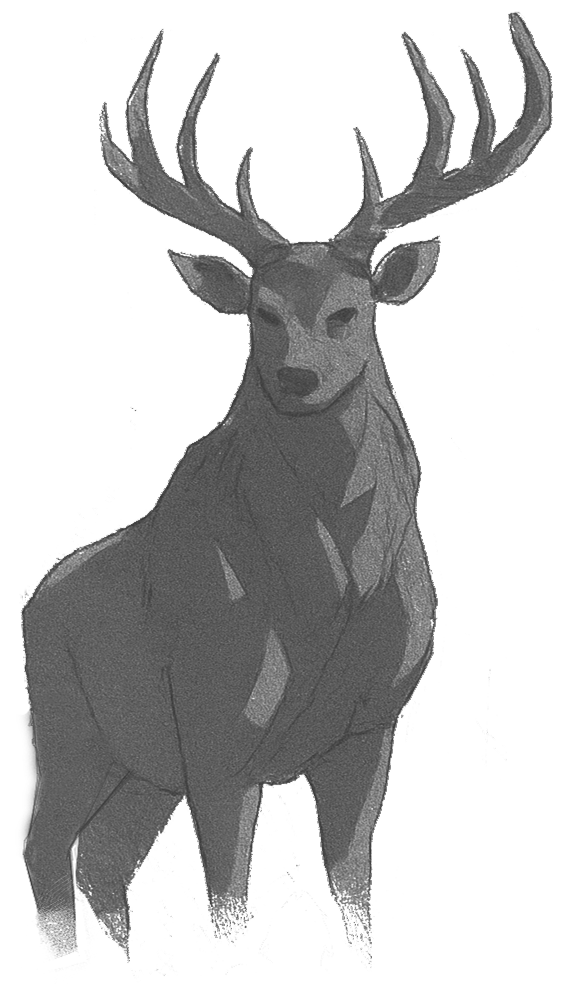
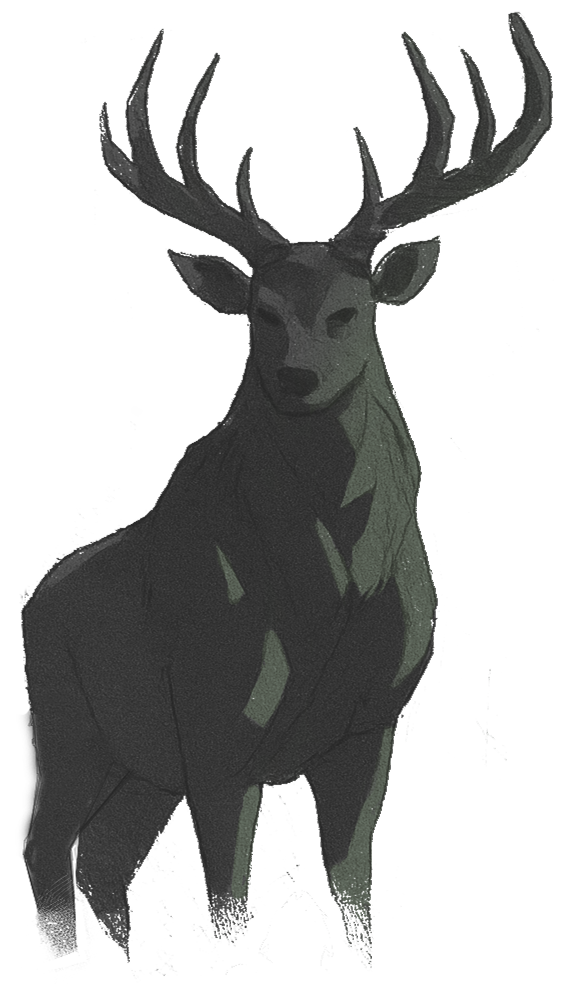
add derr lighting

diff --git a/src/styles.css b/src/styles.css
@@ -8,28 +8,6 @@
 
     --color-shadow: hsl(0 0% 100%);
     --color-shadow-2: hsl(130deg 100% 70%);
-    --color-shadow-3: hsl(130deg 100% 70% / 30%);
-
-    --color-deer-glow: hsl(130deg 40% 90%);
-
-    --deer-shadow: drop-shadow(0 0 2px rgb(255 255 255 / 80%))
-      drop-shadow(
-        0 0 5px color-mix(in hsl, var(--color-deer-glow) 80%, transparent)
-      )
-      drop-shadow(
-        0 0 10px color-mix(in hsl, var(--color-deer-glow) 80%, transparent)
-      )
-      drop-shadow(
-        0 0 20px color-mix(in hsl, var(--color-deer-glow) 80%, transparent)
-      )
-      drop-shadow(
-        0 0 30px color-mix(in hsl, var(--color-shadow-2) 40%, transparent)
-      )
-      drop-shadow(
-        0 0 40px color-mix(in hsl, var(--color-deer-glow) 80%, transparent)
-      )
-      drop-shadow(0 100px 70px var(--color-shadow-2))
-      drop-shadow(0 0 45px var(--color-deer-glow));
   }
 
   html {
@@ -83,59 +61,13 @@
     width: 90vmin;
     max-width: 600px;
 
+    img {
+      animation: deer-glow 3s infinite alternate ease-in-out;
+    }
+
     @media (min-width: 510px) {
       width: 65vmin;
       translate: calc(var(--pointer-x) - 100px) calc(var(--pointer-y) - 100px);
-    }
-  }
-
-  .deer-head {
-    position: absolute;
-    scale: 0.6;
-    top: 25%;
-    left: 48%;
-    filter: var(--deer-shadow);
-    color: white;
-    opacity: 0.9;
-    animation: deer-glow 3s infinite alternate ease-in-out;
-    will-change: filter;
-
-    @media (min-width: 600px) {
-      scale: 0.9;
-      top: 26%;
-      left: 50%;
-    }
-
-    @media (min-width: 800px) {
-      scale: 1;
-      top: 26%;
-      left: 50%;
-    }
-  }
-
-  .deer::before,
-  .deer::after {
-    content: '';
-    position: absolute;
-    width: 25px;
-    height: 2px;
-    background-color: white;
-    filter: var(--deer-shadow);
-  }
-
-  .deer::before {
-    rotate: 36deg;
-    left: 42%;
-    top: 24.5%;
-  }
-
-  .deer::after {
-    rotate: -45deg;
-    left: 59%;
-    top: 24.5%;
-
-    @media (min-width: 510px) {
-      left: 60%;
     }
   }
 
@@ -173,7 +105,8 @@
       0 0 5px #fff,
       -10px 0 60px var(--color-shadow),
       10px 0 60px var(--color-shadow-2),
-      100px 100px 200px 70px var(--color-shadow-3);
+      100px 100px 200px 70px
+        color-mix(in hsl, var(--color-shadow-2) 40%, transparent);
 
     animation: move 3s infinite alternate ease-in-out;
 
@@ -184,11 +117,11 @@
 
   @keyframes deer-glow {
     0% {
-      filter: hue-rotate(-40deg) var(--deer-shadow);
+      filter: hue-rotate(-40deg);
     }
 
     100% {
-      filter: hue-rotate(40deg) var(--deer-shadow);
+      filter: hue-rotate(40deg);
     }
   }
 
@@ -232,6 +165,24 @@
       font-weight: 600;
       color: var(--color-fg);
       text-decoration: none;
+      position: relative;
+
+      &::before {
+        content: '';
+        position: absolute;
+        width: 1ch;
+        height: 4px;
+        background-color: currentColor;
+        bottom: -3px;
+        left: 2px;
+        transform-origin: left;
+        transition: transform 0.3s ease-in-out;
+        transform: scaleX(0);
+      }
+
+      &:hover::before {
+        transform: scaleX(1);
+      }
     }
 
     &:has(a:hover) a:not(:hover) {

diff --git a/index.html b/index.html
@@ -15,20 +15,6 @@
     <div class="container">
       <div class="deer">
         <img src="/images/deer.png" alt="Deer" />
-        <svg
-          class="deer-head"
-          width="35"
-          height="33"
-          viewBox="0 0 35 33"
-          fill="none"
-          xmlns="http://www.w3.org/2000/svg"
-        >
-          <path
-            d="M19.7721 31.6417L33.4626 17.9512L17.5336 2.0221L1.60449 17.9512L15.2951 31.6417"
-            stroke="currentColor"
-            stroke-width="2"
-          />
-        </svg>
       </div>
       <div class="content">
         <h1 class="heading">ASafaeirad</h1>
